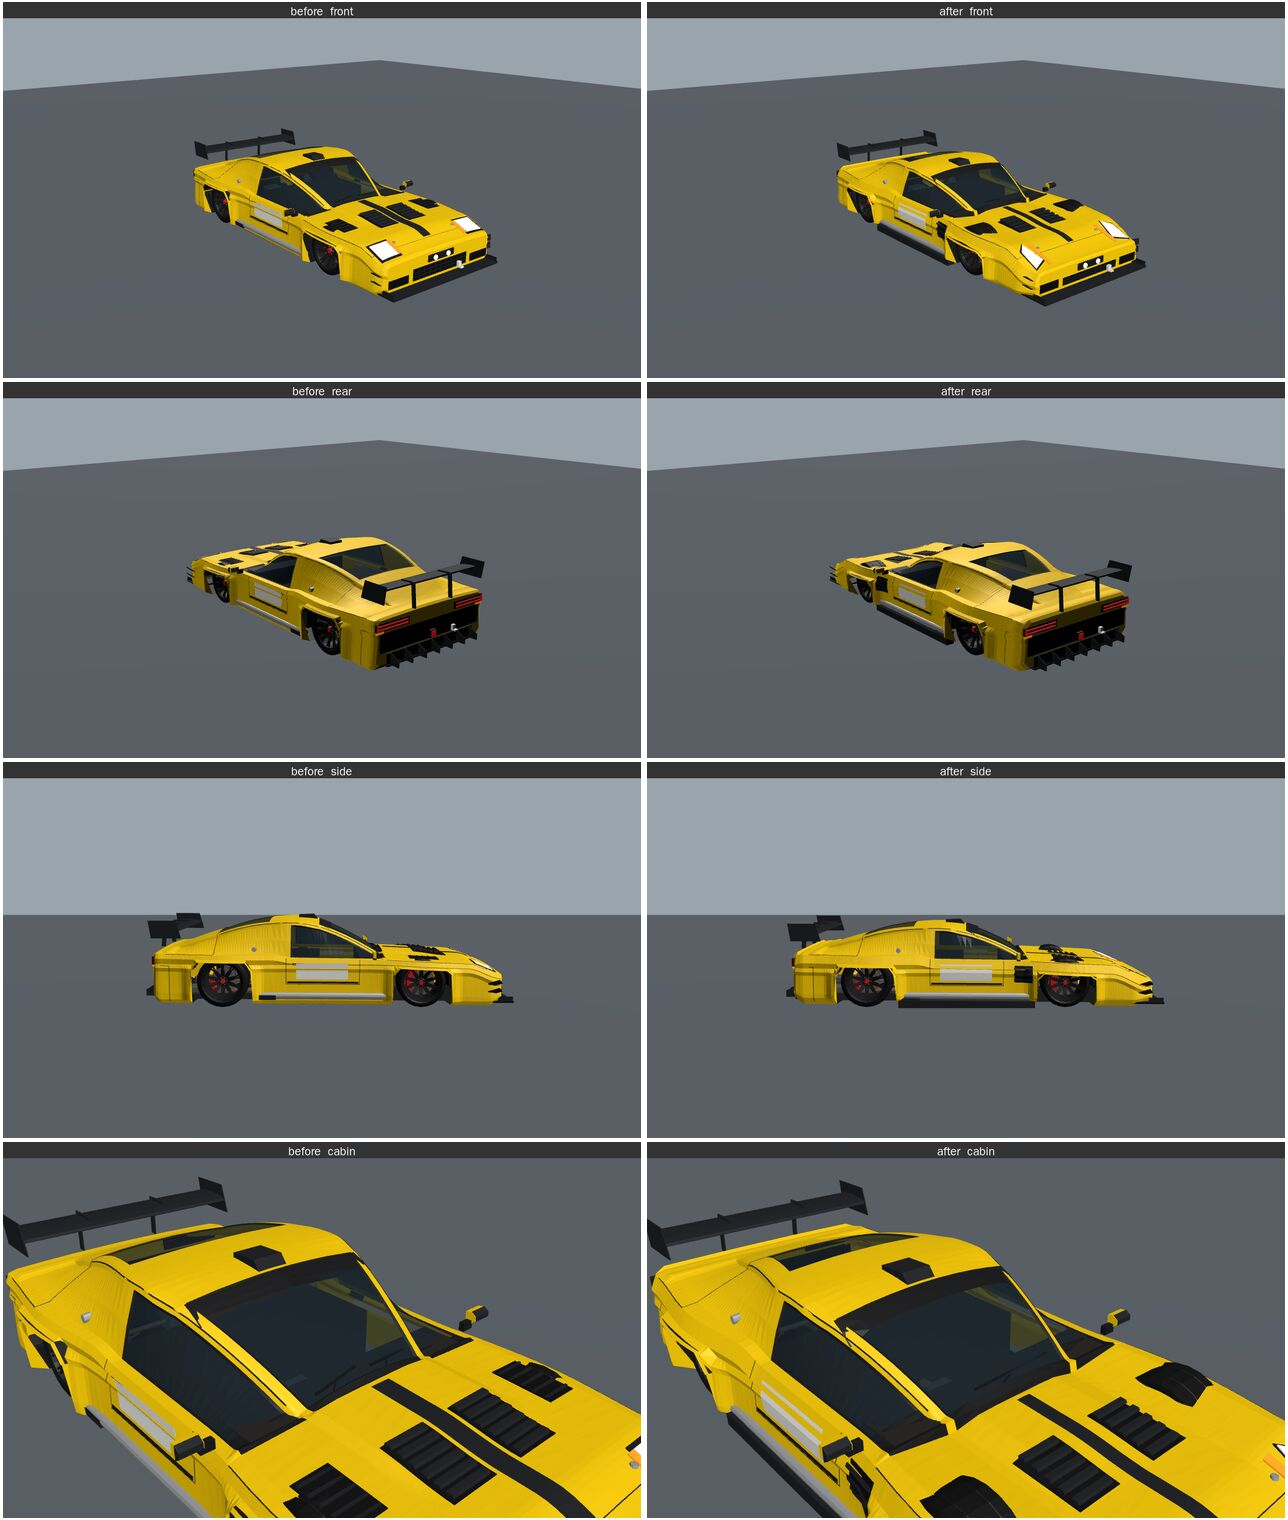
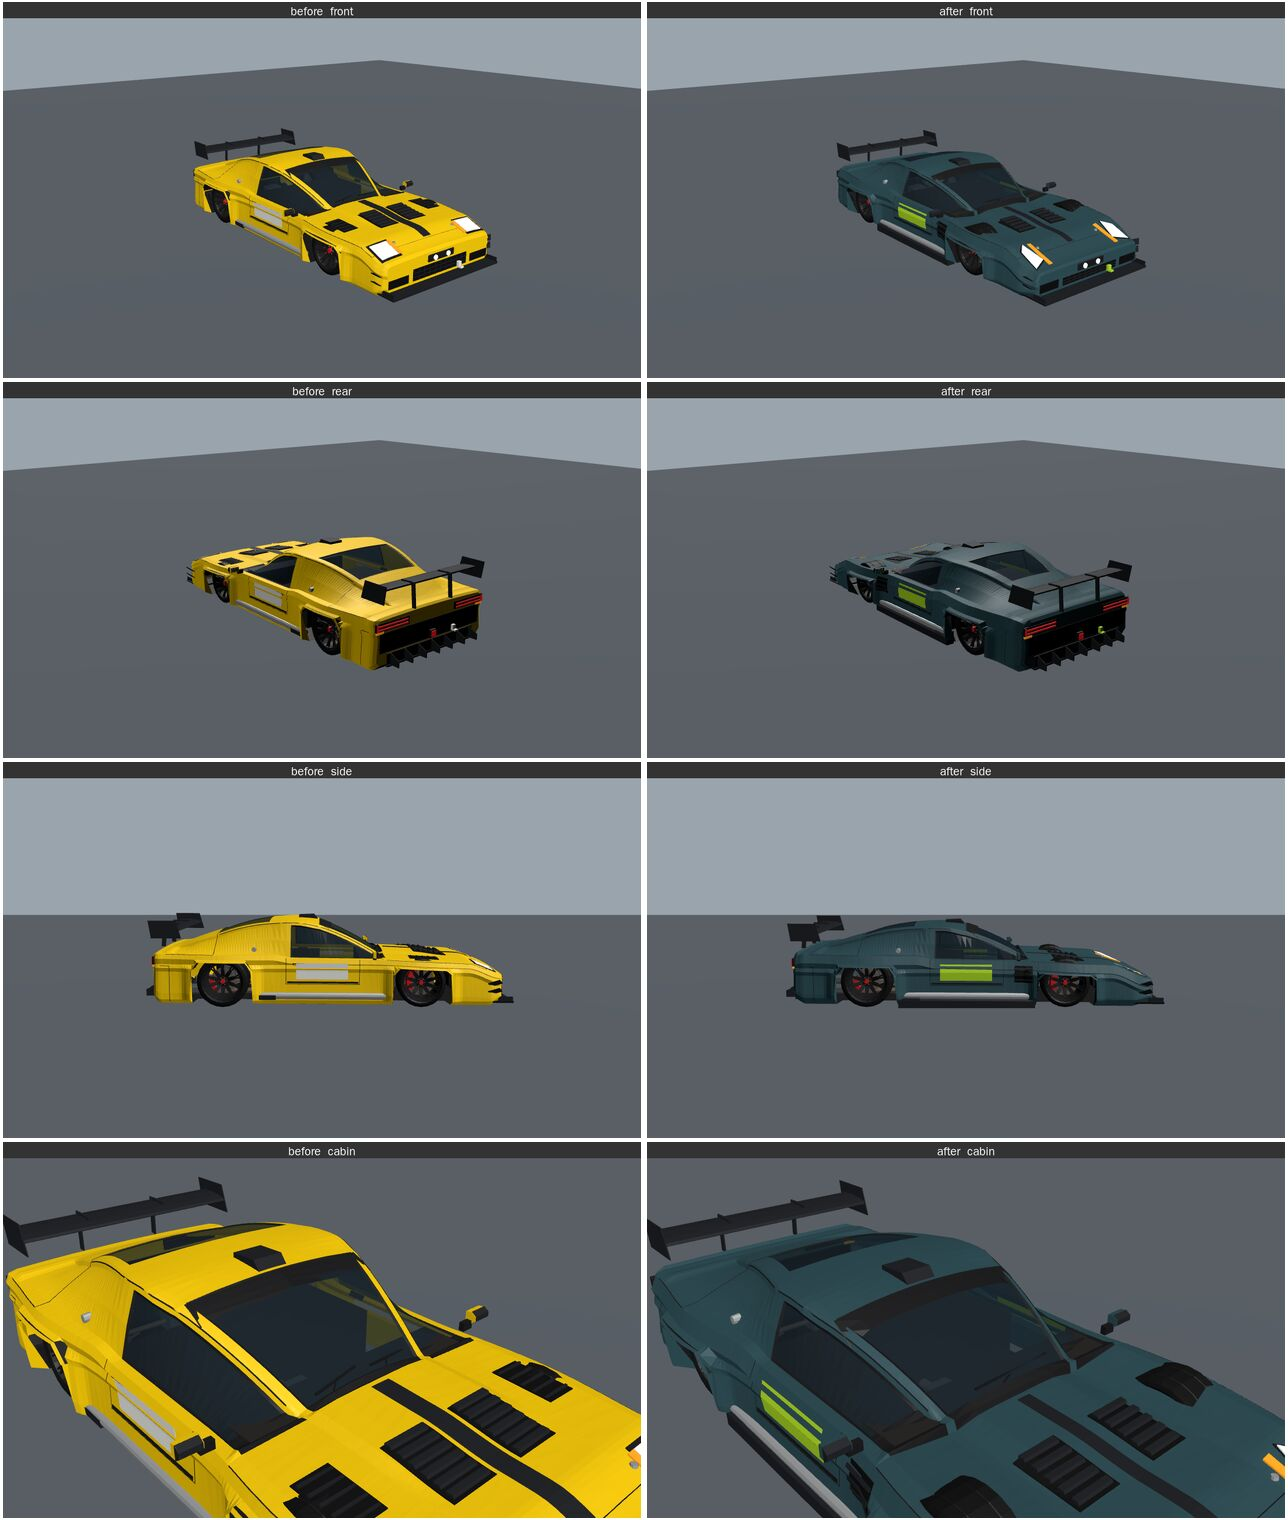
car-assets: rule 9 brand cues: morrigan own livery, mesquite twin-blade running lights
Claude-Session: https://claude.ai/code/session_01M1HYJgeYFjQeCkSbFwjDC6

diff --git a/tools/assets/src/styles/performance/offroad.rs b/tools/assets/src/styles/performance/offroad.rs
@@ -289,7 +289,7 @@ fn mesquite_kit(ctx: &DetailCtx, _key: &PartKey, b: &mut Builder) {
     let ff = BodyRegion::FrameFront;
     let fr = BodyRegion::FrameRear;
 
-    // --- Nose: tall lamp clusters with C-shaped running lights, wide grille between them with
+    // --- Nose: tall lamp clusters with twin-blade running lights, wide grille between them with
     // a heavy body-colour crossbar and a blank badge, black lower fascia.
     let (lz0, lz1) = (nz1 - 0.24, nz1 - 0.04);
     for sx in SIDES {
@@ -327,15 +327,15 @@ fn mesquite_kit(ctx: &DetailCtx, _key: &PartKey, b: &mut Builder) {
             0.020,
             0.0,
         );
-        // "C" running light: top bar, inboard upright, bottom bar.
+        // Running lights: twin horizontal blades above and below the lens (the house graphic;
+        // rule 9 keeps it clear of any maker's signature lamp shape).
         let kd = sided(
             &lkey("drl_l", BodyRegion::FrontLeftFender, M::Headlight),
             sx,
         );
         for (x0, x1, z0, z1) in [
-            (0.63, wn - 0.05, lz1 - 0.035, lz1 - 0.015),
-            (0.63, 0.655, lz0 + 0.015, lz1 - 0.015),
-            (0.63, wn - 0.05, lz0 + 0.015, lz0 + 0.035),
+            (0.63, wn - 0.05, lz1 - 0.035, lz1 - 0.018),
+            (0.66, wn - 0.08, lz0 + 0.018, lz0 + 0.030),
         ] {
             k.front_box(&kd, sx * x0, sx * x1, z0, z1, 0.024, 0.0);
         }

diff --git a/tools/assets/src/styles/performance/race.rs b/tools/assets/src/styles/performance/race.rs
@@ -170,7 +170,8 @@ fn number_panel(k: &mut Kit, sx: f32, y0: f32, y1: f32, z0: f32, z1: f32) {
 
 /// Front-engine GT endurance racer built from a coupe: long louvred hood, vented box flares,
 /// huge carbon splitter with dive planes, swan-neck wing on big end plates, deep diffuser.
-/// Yellow with black (carbon) accents and white number panels.
+/// Slate teal with lime accents and number panels, carbon aero (a fictional team's colours;
+/// rule 9: no real team's livery).
 pub fn morrigan(def: &VehicleDef) -> CarStyle {
     let mut s = CarStyle::with_body(BodyStyle {
         cabin_shift_m: -0.22,
@@ -233,8 +234,8 @@ pub fn morrigan(def: &VehicleDef) -> CarStyle {
     m.show_engine_detail = true;
     m.caliper_rgb = Some(rgb(0xD21E1E));
     m.spring_rgb = Some(rgb(0x1C1C1C));
-    s.tints.push((M::Paint, rgb(0xFFD100)));
-    s.accent_rgb = Some(rgb(0xF4F4F0));
+    s.tints.push((M::Paint, rgb(0x2F4F57)));
+    s.accent_rgb = Some(rgb(0xB8E62A));
     s
 }
 

diff --git a/docs/integration/car-shapes-race-offroad.md b/docs/integration/car-shapes-race-offroad.md
@@ -35,16 +35,16 @@ Triangles: full mesh (hero budget 22k) / mid LOD (7k).
 ### `mesquite_pr` (pre-runner pickup)
 - **Reference:** 2010s American full-size off-road performance pickup: tall slab sides and a high,
   flat hood, near-upright nose with a wide grille between the lamps, heavy crossbar and badge,
-  wrap-round lamp clusters with C-shaped running lights, fibreglass box flares over 35-inch
+  tall lamp clusters with LED running-light graphics, fibreglass box flares over 35-inch
   all-terrains, raked windshield, sliding cab-back window.
 - **Before:** read as a small 80s pickup (low belt, small square lamps, small grille, 46°
   upright windshield).
 - **Changed:** belt +8 cm (taller slab sides), nose raised to the lattice hood-front height
   (1.20 m, the physical limit) and stood upright, flatter hood with a centre bulge, 57°
   windshield, side character line; new front: tall lamp clusters (projector lens + outboard
-  amber signal + C running light), wide mesh grille with frame, body-colour crossbar and blank
+  amber signal + twin running-light blades), wide mesh grille with frame, body-colour crossbar and blank
   badge; sliding rear window on the cab-back wall; black mirrors and handles, fuel door left.
-- **Tris:** 20 223 → 20 835 / mid 6 530 → 6 980.
+- **Tris:** 20 223 → 20 811 / mid 6 530 → 6 964.
 
 ### `morrigan_55` (front-engine GT endurance racer)
 - **Reference:** 2010s front-mid-engine GT endurance car on a production coupe: long hood with
@@ -100,6 +100,10 @@ because the coarse one cut under the crowned windshield and flickered.
   (the cladding takes over as the dark accent; also needed to keep the mid LOD under 7k).
 - **Erg:** body-colour pontoon fenders (boxed, navy lips) 14 cm out; taller stance.
 - **Morrigan:** carbon sill pods between the wheels.
+- **Rule 9 (brand cues, lead note):** Morrigan's yellow-with-black livery was dropped (a yellow
+  front-engine V8 GT racer points at one real factory team): now slate teal with lime accents.
+  Mesquite's C-shaped running lights (one maker's signature) are now twin horizontal blades.
+  Grilles are generic mesh with blank badges.
 - Not done on purpose: a cab-forward canopy on Morrigan (front-engine GT, long hood per its
   spec) and Merlo (four-door touring sedan). Only Nyx has the canopy.
 
@@ -149,5 +153,5 @@ patches here) for two-door bodies on four-door lattices and closed engine covers
   lattice doors).
 - The loft's flat shading shows a stipple on the big curved haunches (pre-existing, every car).
 - Mesquite's hood front cannot rise above the lattice hood-front height, so the nose is a little
-  lower than a real full-size truck's; its mid LOD sits at 6 980 of 7 000.
+  lower than a real full-size truck's; its mid LOD sits at 6 964 of 7 000.
 - Body sides are still slab-sided between the arches (generator requests 1–2).
